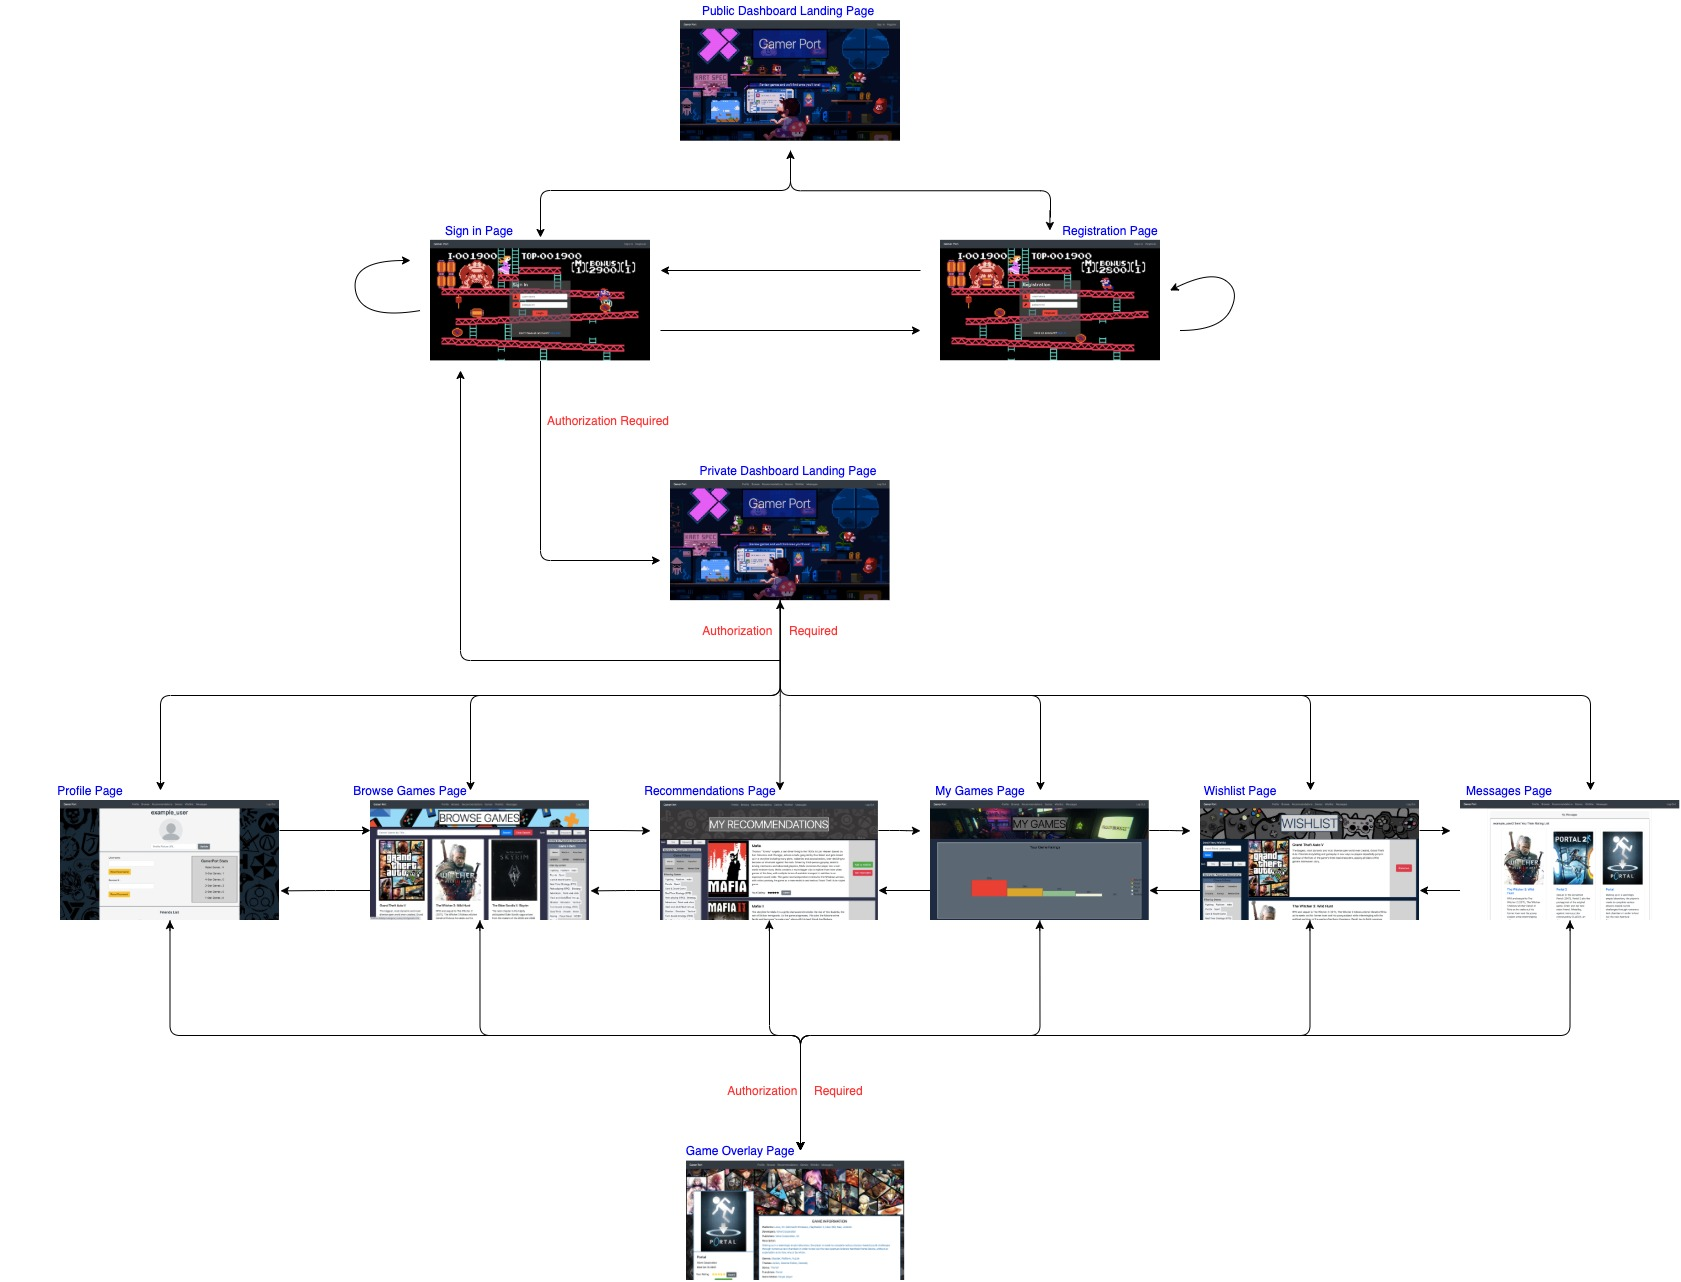
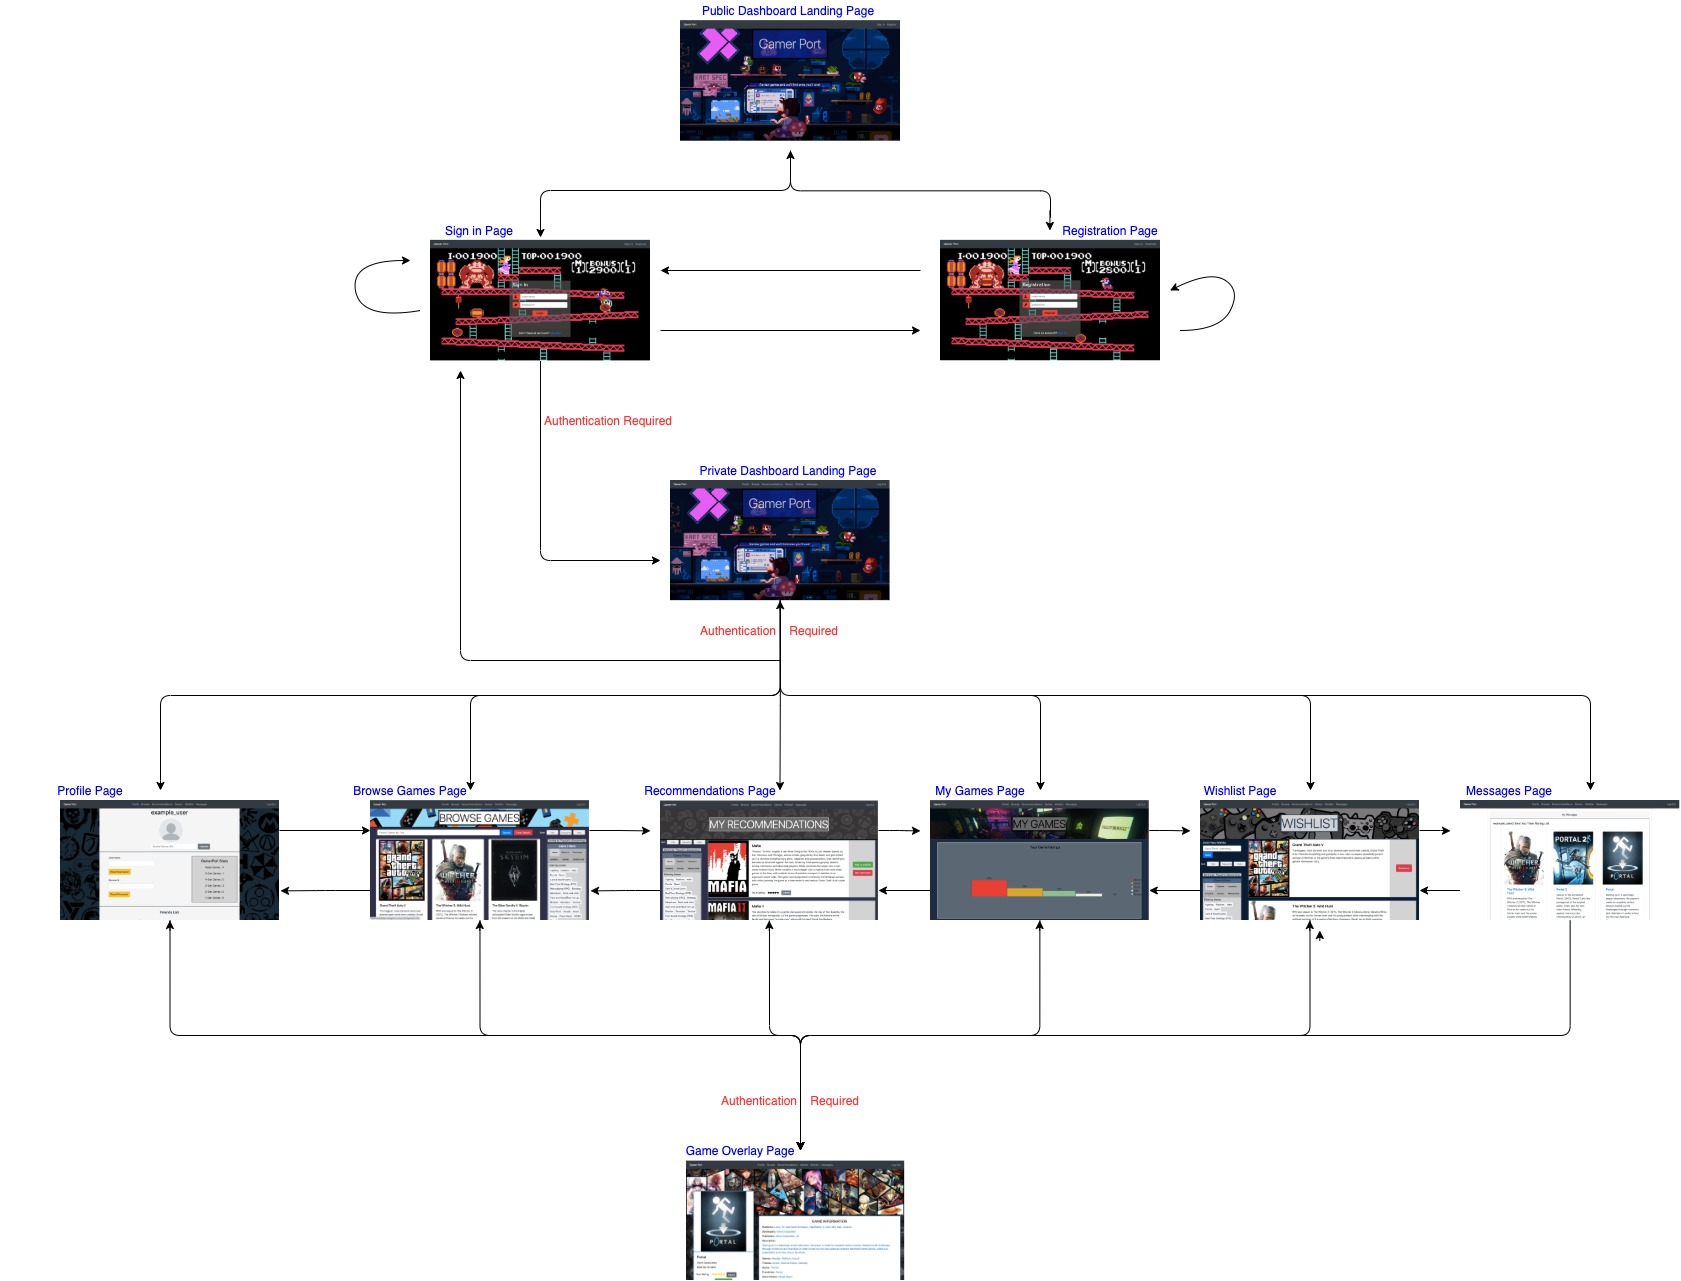
Change Authorization to Authentication in URL_Mapping info

diff --git a/docs/final.md b/docs/final.md
@@ -475,7 +475,7 @@ The user_messages table contains all the information for individual messages sen
 ### URL Routes/Mappings
 ![URL_Mapping image](./final_milestone_images/URL_Mapping.jpg)
 
-| Starting Page|Destination Page|Require Authorization|Description|
+| Starting Page|Destination Page|Require Authentication|Description|
 |--------------------------|---------------------------|------|-------------------------------------------------------------------|
 | --- | Public Dashboard Landing | No   | Main page non-signed in user lands on. Non-signed in users can navigate to page using GamerPort URL link in Navigation bar |
 | Public Dashboard Landing | Sign-in  | No   | Non-signed in users can navigate to destination page using Sign In URL link in Navigation bar in order to sign in to application |
